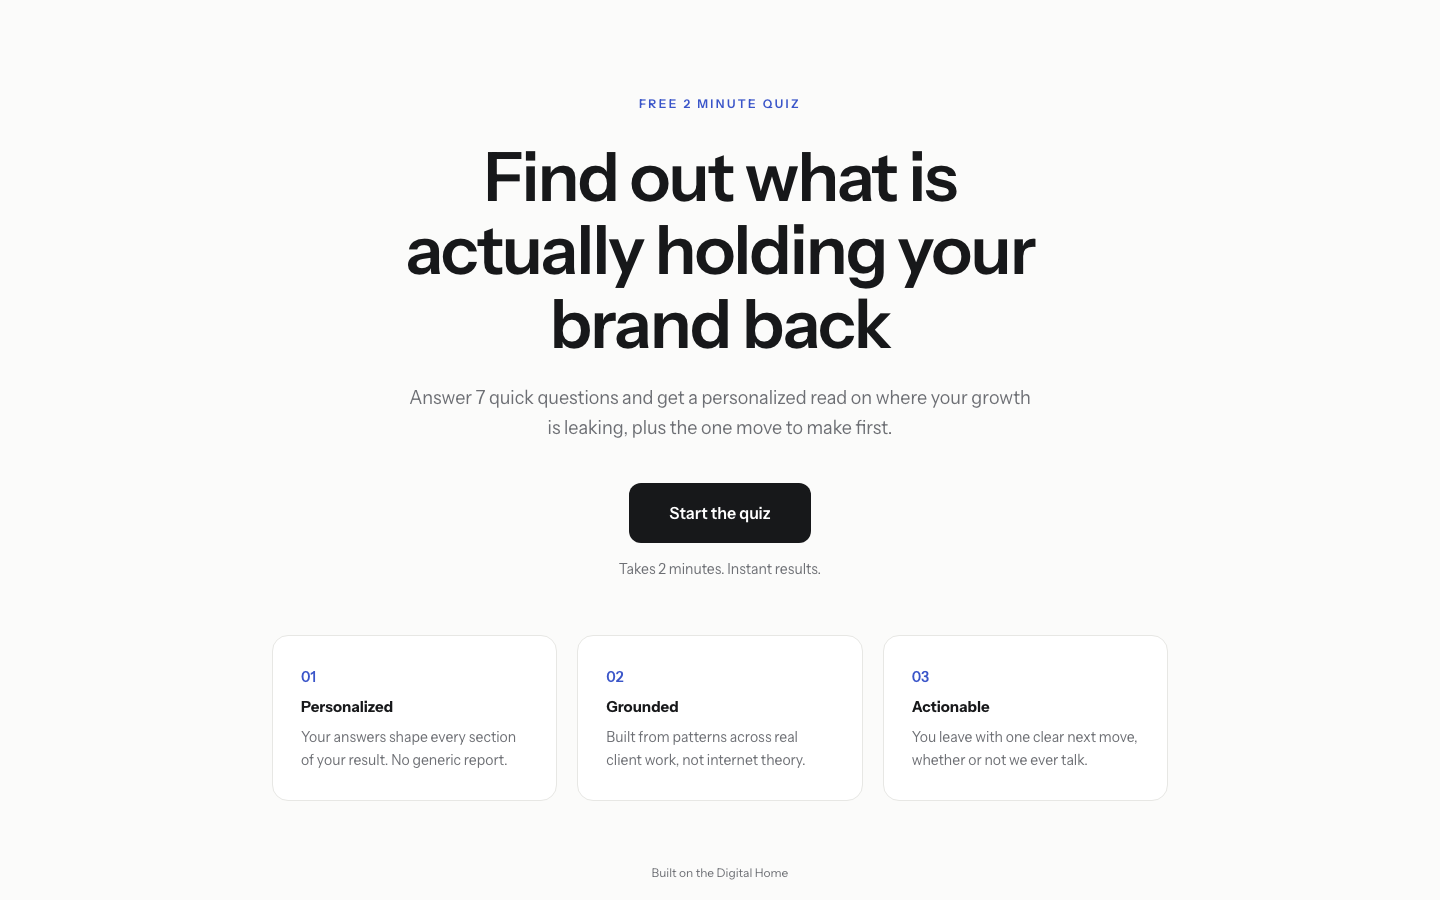
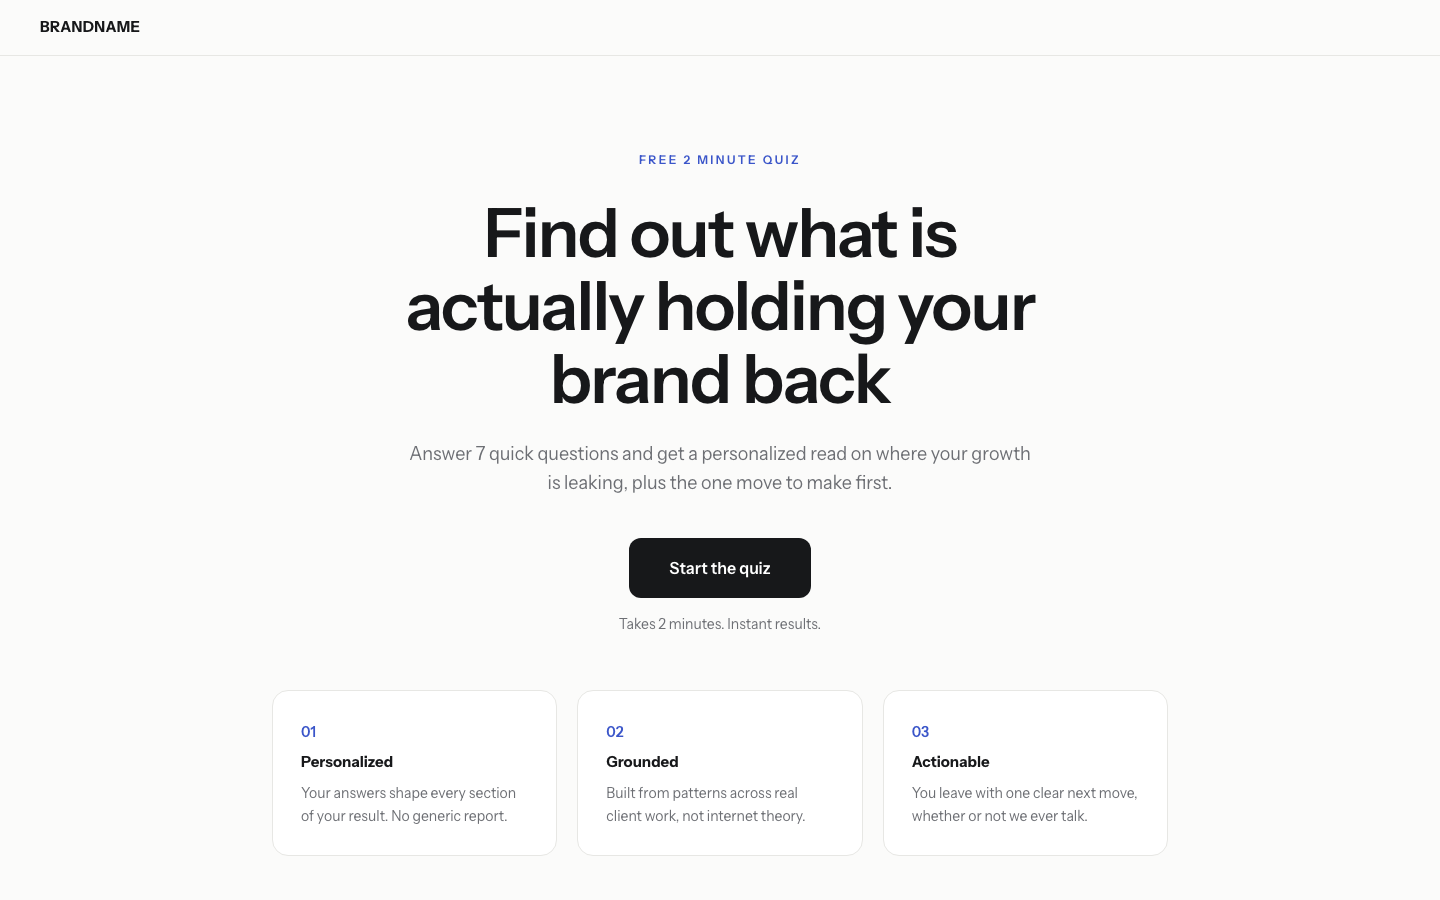
site chrome: wordmark header and footer on landing, results, and sales pages
BRAND config drives a mock wordmark rail (anchor nav to sections on
the long-scroll sales page) and a centered wordmark footer. Quiz
steps stay chrome-free: focused transactional flows drop navigation.

diff --git a/src/components/SiteChrome.tsx b/src/components/SiteChrome.tsx
@@ -1,0 +1,58 @@
+'use client';
+
+/**
+ * The template's top and tail: a quiet wordmark header rail and a
+ * centered wordmark footer, both driven by BRAND (config) and the
+ * theme. The sales page passes anchor nav; the quiz landing keeps
+ * the rail bare. Quiz steps stay chrome-free on purpose: a focused
+ * transactional flow drops navigation (house SEO doctrine).
+ */
+import { BRAND } from '@/funnel/config';
+import { useTheme } from './ThemeProvider';
+
+function Wordmark() {
+  const theme = useTheme();
+  return (
+    <span
+      className="text-[15px] tracking-tight text-[var(--ink)]"
+      style={{
+        fontFamily: 'var(--font-display)',
+        fontWeight: 800,
+        textTransform: theme.display.transform === 'uppercase' ? 'uppercase' : 'uppercase',
+        letterSpacing: '0.02em',
+      }}
+    >
+      {BRAND.wordmark}
+    </span>
+  );
+}
+
+export function SiteHeader({ nav }: { nav?: { label: string; href: string }[] }) {
+  return (
+    <header className="flex items-center justify-between gap-6 border-b border-[var(--border)] px-6 py-4 md:px-10">
+      <Wordmark />
+      {nav && nav.length > 0 && (
+        <nav className="hidden items-center gap-7 md:flex">
+          {nav.map((l) => (
+            <a
+              key={l.href}
+              href={l.href}
+              className="text-sm text-[var(--muted)] transition-colors hover:text-[var(--ink)]"
+            >
+              {l.label}
+            </a>
+          ))}
+        </nav>
+      )}
+    </header>
+  );
+}
+
+export function SiteFooter({ note }: { note?: string }) {
+  return (
+    <footer className="border-t border-[var(--border)] px-6 py-10 text-center">
+      <Wordmark />
+      {note && <p className="mt-2 text-xs text-[var(--muted)]">{note}</p>}
+    </footer>
+  );
+}

diff --git a/src/components/SalesPage.tsx b/src/components/SalesPage.tsx
@@ -21,6 +21,7 @@ import { trackEvent, getFunnelSessionId } from '@/lib/events';
 import type { SalesSection } from '@/lib/types';
 import { Eyebrow } from './LandingPage';
 import { buttonStyle, displayStyle, useTheme } from './ThemeProvider';
+import { SiteHeader, SiteFooter } from './SiteChrome';
 import type { Theme } from '@/themes';
 
 /** Band treatment per section kind: ground / surface / inverted. */
@@ -462,8 +463,19 @@ export default function SalesPage() {
     };
   }, []);
 
+  const NAV_LABELS: Partial<Record<SalesSection['kind'], string>> = {
+    offer: 'What you get',
+    proof: 'Proof',
+    pricing: 'Pricing',
+    faq: 'FAQ',
+  };
+  const nav = SALES.sections
+    .filter((s) => NAV_LABELS[s.kind])
+    .map((s) => ({ label: NAV_LABELS[s.kind]!, href: `#${s.kind}` }));
+
   return (
     <main className="flex-1">
+      <SiteHeader nav={nav} />
       {SALES.sections.map((section, i) => (
         <section
           key={`${section.kind}-${i}`}
@@ -479,9 +491,8 @@ export default function SalesPage() {
         </section>
       ))}
 
-      {SALES.footer && (
-        <footer className="px-6 pb-24 pt-2 text-center text-xs text-[var(--muted)]">{SALES.footer}</footer>
-      )}
+      <div className="pb-14" />
+      <SiteFooter note={SALES.footer || undefined} />
 
       {SALES.stickyBar && (
         <div

diff --git a/src/components/LandingPage.tsx b/src/components/LandingPage.tsx
@@ -3,6 +3,7 @@
 import { motion } from 'framer-motion';
 import { LANDING } from '@/funnel/landing';
 import { buttonStyle, displayStyle, useTheme } from './ThemeProvider';
+import { SiteHeader, SiteFooter } from './SiteChrome';
 
 export function Eyebrow({ children }: { children: React.ReactNode }) {
   const theme = useTheme();
@@ -44,6 +45,7 @@ export default function LandingPage({ onStart }: { onStart: () => void }) {
 
   return (
     <main className="flex-1 flex flex-col">
+      <SiteHeader />
       <section className="flex-1 flex items-center px-6 pt-20 pb-14 sm:pt-24">
         <motion.div
           initial={{ opacity: 0, y: 16 }}
@@ -96,11 +98,7 @@ export default function LandingPage({ onStart }: { onStart: () => void }) {
         </motion.div>
       </section>
 
-      {LANDING.footer && (
-        <footer className="px-6 pb-8 text-center text-xs text-[var(--muted)]">
-          {LANDING.footer}
-        </footer>
-      )}
+      <SiteFooter note={LANDING.footer || undefined} />
     </main>
   );
 }

diff --git a/src/components/ResultsPage.tsx b/src/components/ResultsPage.tsx
@@ -4,6 +4,7 @@ import { motion } from 'framer-motion';
 import { CTA } from '@/funnel/config';
 import type { QuizResult } from '@/lib/types';
 import { buttonStyle, displayStyle, useTheme } from './ThemeProvider';
+import { SiteHeader, SiteFooter } from './SiteChrome';
 
 const roman = ['I.', 'II.', 'III.', 'IV.', 'V.', 'VI.', 'VII.'];
 
@@ -45,7 +46,9 @@ export default function ResultsPage({
   const centered = theme.heroAlign === 'center';
 
   return (
-    <main className="flex-1 px-6 py-16">
+    <main className="flex-1 flex flex-col">
+      <SiteHeader />
+      <div className="flex-1 px-6 py-16">
       <div className="mx-auto max-w-2xl">
         <motion.header
           initial={{ opacity: 0, y: 16 }}
@@ -144,6 +147,8 @@ export default function ResultsPage({
           {CTA.note && <p className="mt-4 text-sm text-[var(--muted)]">{CTA.note}</p>}
         </motion.div>
       </div>
+    </div>
+      <SiteFooter />
     </main>
   );
 }

diff --git a/src/funnel/config.ts b/src/funnel/config.ts
@@ -63,3 +63,9 @@ export const CTA: CtaConfig = {
   label: 'Book your free strategy call',
   note: '20 minutes, no pitch. We walk through your result together.',
 };
+
+/**
+ * The mock brand chrome on every page: wordmark in the header rail
+ * and the centered footer. Injected per funnel like everything else.
+ */
+export const BRAND = { wordmark: 'BRANDNAME' };
